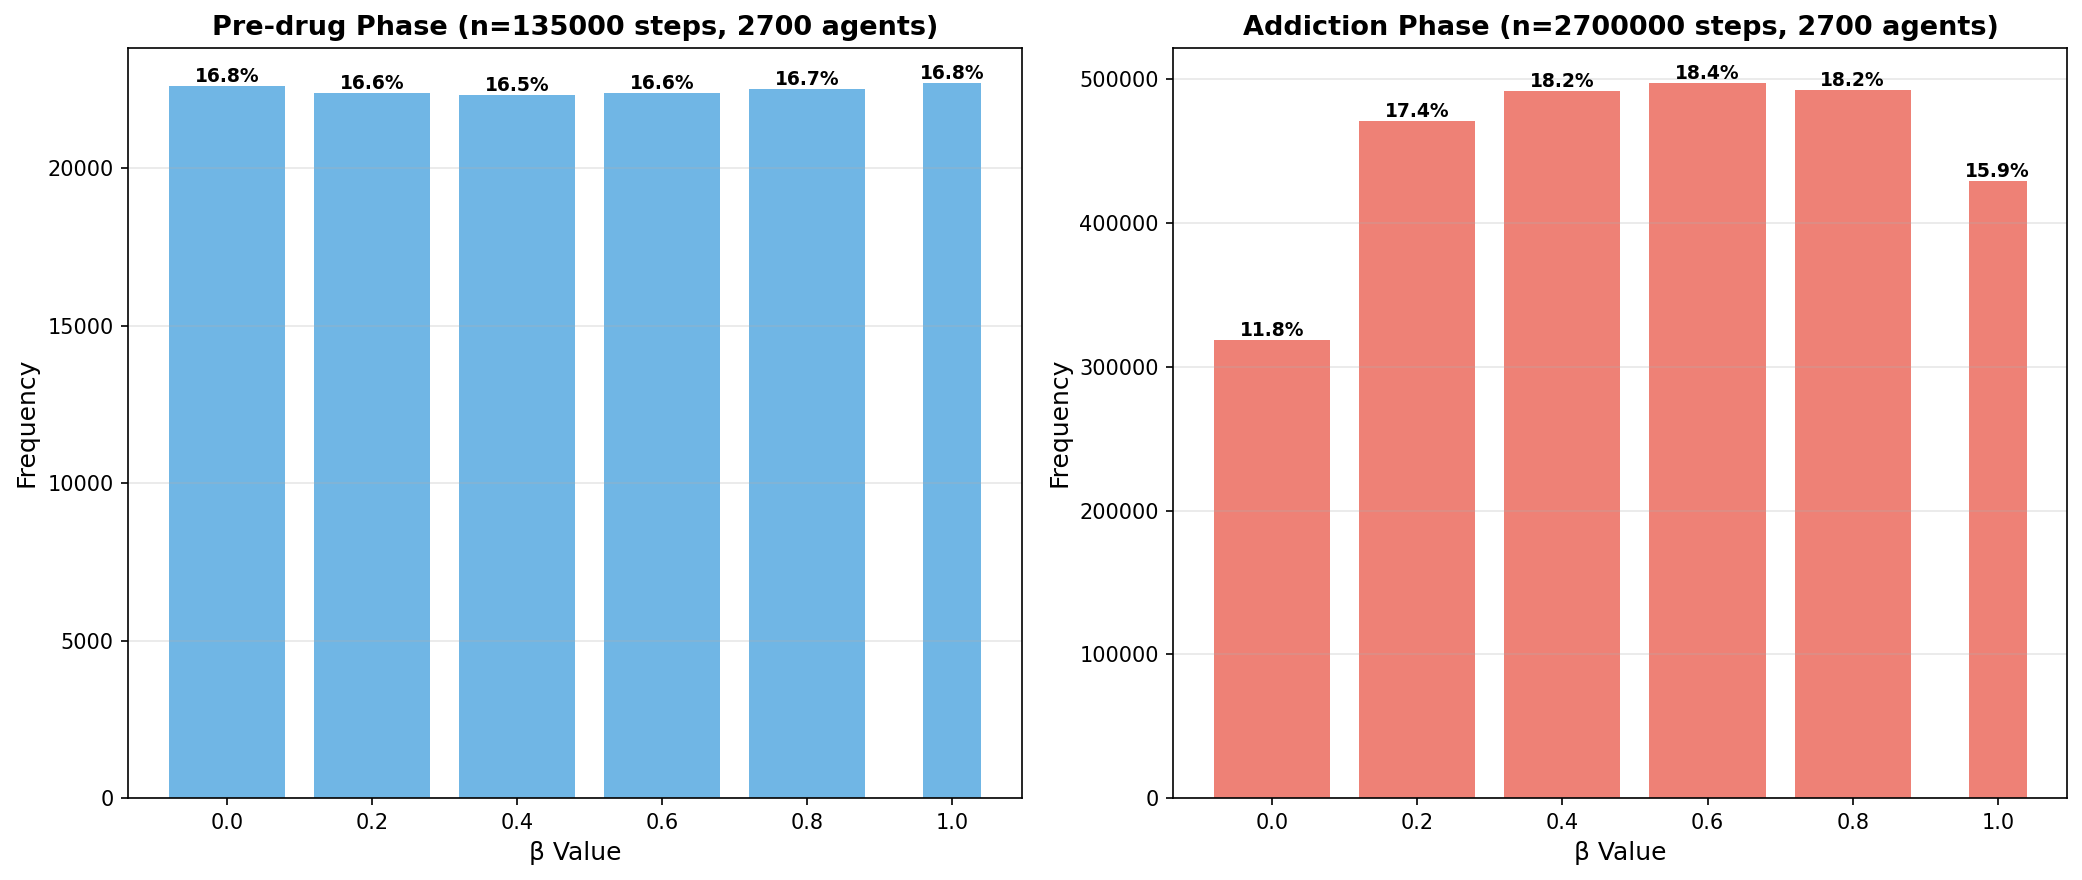
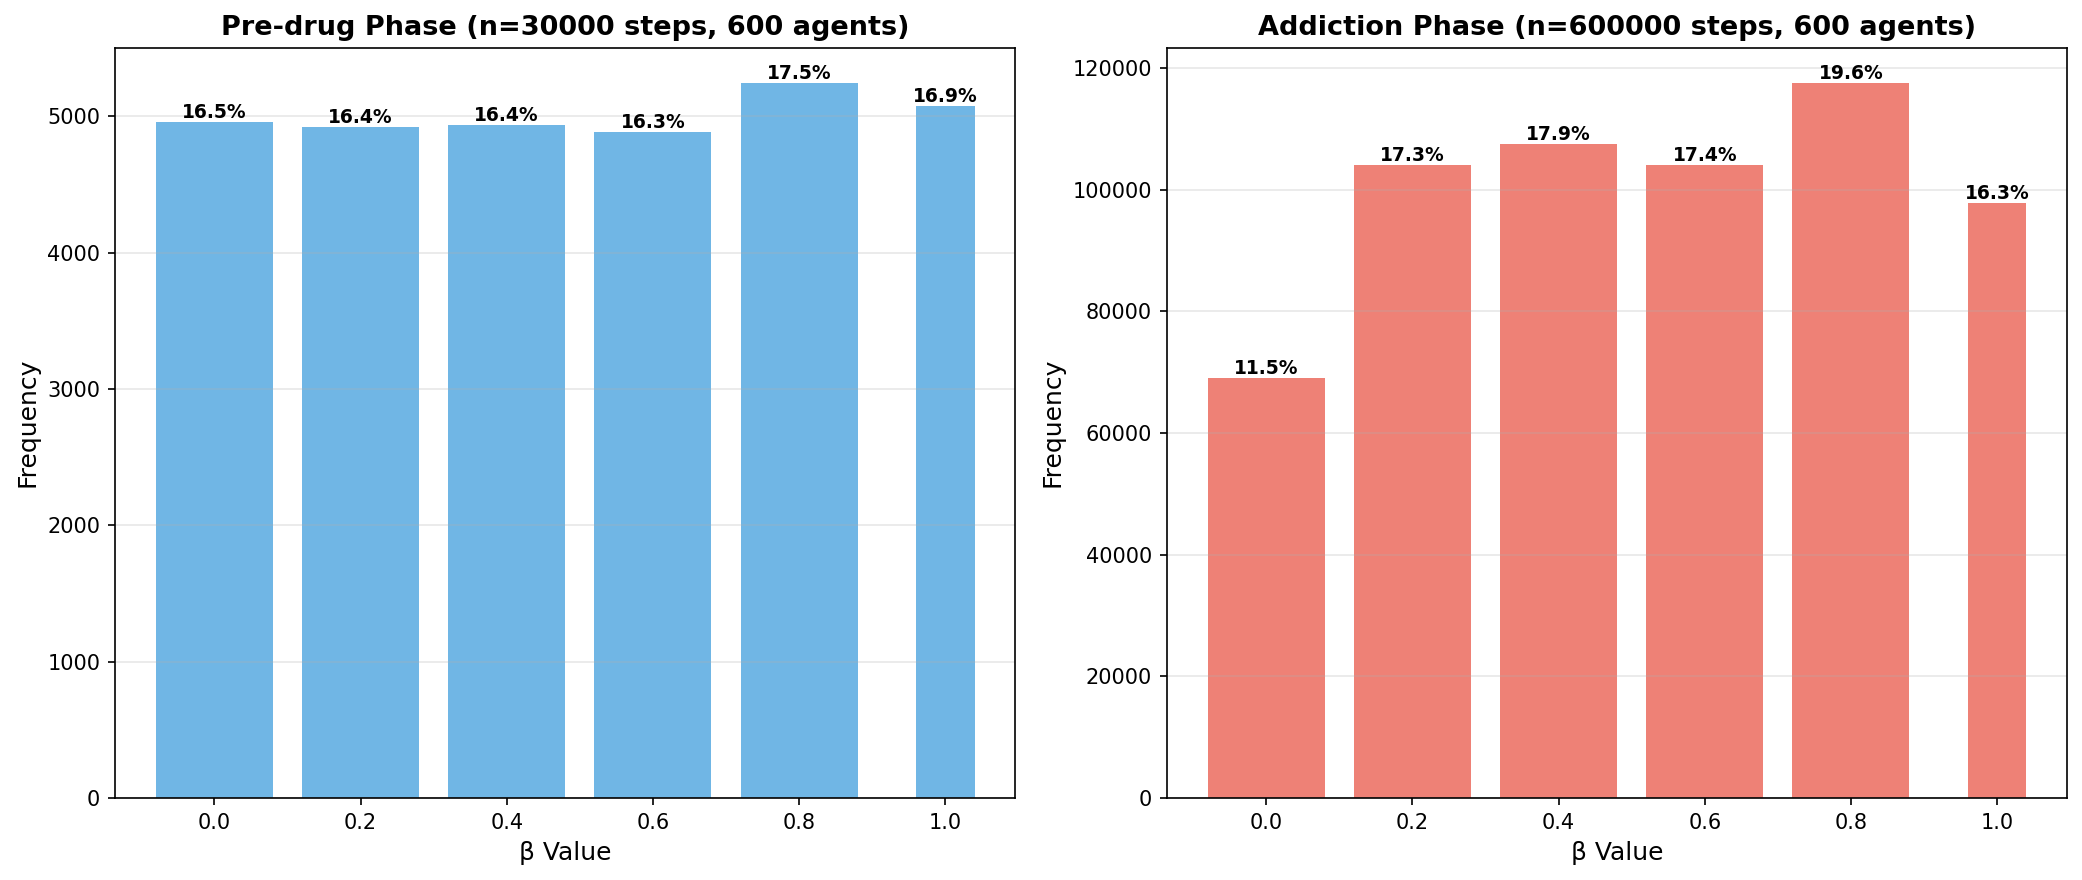
シミュレーション進捗の表示を追加し、依存状態の詳細分析グラフを実装。極端値使用率の統計を追加し、各エージェントのβ値の比較を強化。

diff --git a/addiction_rl_sim.py b/addiction_rl_sim.py
@@ -578,7 +578,13 @@ def simulate(
 
     try:
         for seed_idx in range(num_runs):
+            print(f"\n[Run {seed_idx + 1}/{num_runs}] Starting...")
             for agent_idx in range(num_agents):
+                # 100体ごとに進捗表示
+                if agent_idx > 0 and agent_idx % 100 == 0:
+                    current_addiction_rate = run_addictions[seed_idx] / agent_idx * 100
+                    print(f"  [Run {seed_idx + 1}/{num_runs}] Processed {agent_idx}/{num_agents} agents | Current addiction rate: {current_addiction_rate:.2f}%")
+                
                 # 固定ペアリングシード: (run, agent) ごとに一意のシードを割り当て
                 # これにより同じ (run, agent) 番号は全ての beta 値で同じ初期 RNG を使います
                 seed_for_agent = base_seed + seed_idx * num_agents + agent_idx
@@ -733,6 +739,10 @@ def simulate(
 
                 if debug_episode and seed_idx == 0 and agent_idx == 0 and log_file:
                     log_file.write(f"Final Counts - Drug Choices: {counts.drug_choices}, Healthy Choices: {counts.healthy_choices}\n")
+            
+            # Run終了時の統計表示
+            run_addiction_rate = run_addictions[seed_idx] / num_agents * 100
+            print(f"  [Run {seed_idx + 1}/{num_runs}] Completed! Final addiction rate: {run_addiction_rate:.2f}% ({run_addictions[seed_idx]}/{num_agents} agents)")
     finally:
         if log_file:
             log_file.close()
@@ -1155,6 +1165,190 @@ def plot_beta_analysis(beta_stats: BetaStatistics, output_prefix: str = "beta_an
         plt.savefig(f"{output_prefix}_addiction_comparison.png", dpi=150, bbox_inches='tight')
         print(f"Saved: {output_prefix}_addiction_comparison.png")
         plt.close()
+        
+        # ===== Figure 6: 追加の詳細分析グラフ =====
+        fig6, axes6 = plt.subplots(2, 3, figsize=(18, 10))
+        
+        # (1) β変動性の比較（各エージェントの標準偏差）
+        ax6_1 = axes6[0, 0]
+        std_addicted = [np.std(beta_matrix[i]) for i, is_add in enumerate(addiction_array) if is_add]
+        std_non_addicted = [np.std(beta_matrix[i]) for i, is_add in enumerate(addiction_array) if not is_add]
+        
+        bp1 = ax6_1.boxplot([std_addicted, std_non_addicted],
+                            tick_labels=['Addicted', 'Non-addicted'],
+                            patch_artist=True, widths=0.6)
+        bp1['boxes'][0].set_facecolor('#e74c3c')
+        bp1['boxes'][0].set_alpha(0.7)
+        bp1['boxes'][1].set_facecolor('#2ecc71')
+        bp1['boxes'][1].set_alpha(0.7)
+        
+        ax6_1.set_ylabel('β Standard Deviation (per agent)', fontsize=11)
+        ax6_1.set_title('β Variability Comparison', fontsize=12, fontweight='bold')
+        ax6_1.grid(True, alpha=0.3, axis='y')
+        
+        # 平均値を表示
+        ax6_1.plot([1, 2], [np.mean(std_addicted), np.mean(std_non_addicted)], 
+                  'D', markersize=10, color='orange', label='Mean', zorder=3)
+        ax6_1.legend()
+        
+        # (2) 極端値使用率の比較
+        ax6_2 = axes6[0, 1]
+        extreme_rates_add = []
+        extreme_rates_non = []
+        for i, is_add in enumerate(addiction_array):
+            agent_betas = beta_matrix[i]
+            extreme_rate = (np.sum(np.isclose(agent_betas, 0.0)) + 
+                          np.sum(np.isclose(agent_betas, 1.0))) / len(agent_betas) * 100
+            if is_add:
+                extreme_rates_add.append(extreme_rate)
+            else:
+                extreme_rates_non.append(extreme_rate)
+        
+        ax6_2.hist(extreme_rates_add, bins=20, alpha=0.6, label='Addicted',
+                  color='#e74c3c', density=True)
+        ax6_2.hist(extreme_rates_non, bins=20, alpha=0.6, label='Non-addicted',
+                  color='#2ecc71', density=True)
+        ax6_2.set_xlabel('Extreme Value Usage (%)', fontsize=11)
+        ax6_2.set_ylabel('Density', fontsize=11)
+        ax6_2.set_title('Extreme Strategy Usage Distribution', fontsize=12, fontweight='bold')
+        ax6_2.legend()
+        ax6_2.grid(True, alpha=0.3)
+        ax6_2.axvline(np.mean(extreme_rates_add), color='#e74c3c', linestyle='--', linewidth=2)
+        ax6_2.axvline(np.mean(extreme_rates_non), color='#2ecc71', linestyle='--', linewidth=2)
+        
+        # (3) 各βの使用率差（棒グラフ）
+        ax6_3 = axes6[0, 2]
+        freq_diff = []
+        for beta_val in BETA_VALUES:
+            freq_add = np.sum(np.isclose(beta_addicted, beta_val)) / len(beta_addicted) * 100
+            freq_non = np.sum(np.isclose(beta_non_addicted, beta_val)) / len(beta_non_addicted) * 100
+            freq_diff.append(freq_add - freq_non)
+        
+        colors_diff = ['#e74c3c' if d > 0 else '#2ecc71' for d in freq_diff]
+        bars_diff = ax6_3.bar(range(len(BETA_VALUES)), freq_diff, color=colors_diff, alpha=0.7)
+        ax6_3.axhline(0, color='black', linewidth=1)
+        ax6_3.set_xlabel('β Value', fontsize=11)
+        ax6_3.set_ylabel('Usage Difference (%)', fontsize=11)
+        ax6_3.set_title('β Usage: Addicted - Non-addicted', fontsize=12, fontweight='bold')
+        ax6_3.set_xticks(range(len(BETA_VALUES)))
+        ax6_3.set_xticklabels([f'{b:.1f}' for b in BETA_VALUES])
+        ax6_3.grid(True, alpha=0.3, axis='y')
+        
+        # 値をバーに表示
+        for i, (bar, diff) in enumerate(zip(bars_diff, freq_diff)):
+            height = bar.get_height()
+            ax6_3.text(bar.get_x() + bar.get_width()/2, height,
+                      f'{diff:+.1f}%', ha='center', 
+                      va='bottom' if height > 0 else 'top', fontsize=9)
+        
+        # (4) 時系列でのβ平均（依存群vs非依存群）
+        ax6_4 = axes6[1, 0]
+        
+        # 各時刻での平均を計算
+        beta_add_mean_t = np.mean(beta_addicted_by_phase, axis=0)
+        beta_non_mean_t = np.mean(beta_non_addicted_by_phase, axis=0)
+        beta_add_std_t = np.std(beta_addicted_by_phase, axis=0)
+        beta_non_std_t = np.std(beta_non_addicted_by_phase, axis=0)
+        
+        ax6_4.plot(step_array, beta_add_mean_t, '-', color='#e74c3c', linewidth=2, 
+                  label='Addicted', alpha=0.8)
+        ax6_4.fill_between(step_array, beta_add_mean_t - beta_add_std_t, 
+                          beta_add_mean_t + beta_add_std_t,
+                          color='#e74c3c', alpha=0.2)
+        
+        ax6_4.plot(step_array, beta_non_mean_t, '-', color='#2ecc71', linewidth=2,
+                  label='Non-addicted', alpha=0.8)
+        ax6_4.fill_between(step_array, beta_non_mean_t - beta_non_std_t,
+                          beta_non_mean_t + beta_non_std_t,
+                          color='#2ecc71', alpha=0.2)
+        
+        # フェーズ境界
+        phase_boundary = np.where(np.diff(phase_mean) != 0)[0]
+        for boundary in phase_boundary:
+            ax6_4.axvline(step_array[boundary], color='gray', linestyle='--', alpha=0.5)
+        
+        ax6_4.set_xlabel('Step', fontsize=11)
+        ax6_4.set_ylabel('Mean β Value', fontsize=11)
+        ax6_4.set_title('β Dynamics: Addicted vs Non-addicted', fontsize=12, fontweight='bold')
+        ax6_4.set_ylim(-0.05, 1.05)
+        ax6_4.legend()
+        ax6_4.grid(True, alpha=0.3)
+        
+        # (5) 中間値使用率の比較
+        ax6_5 = axes6[1, 1]
+        middle_rates_add = []
+        middle_rates_non = []
+        for i, is_add in enumerate(addiction_array):
+            agent_betas = beta_matrix[i]
+            # β=0.2, 0.4, 0.6, 0.8の使用率
+            middle_count = 0
+            for beta_val in [0.2, 0.4, 0.6, 0.8]:
+                middle_count += np.sum(np.isclose(agent_betas, beta_val))
+            middle_rate = middle_count / len(agent_betas) * 100
+            if is_add:
+                middle_rates_add.append(middle_rate)
+            else:
+                middle_rates_non.append(middle_rate)
+        
+        bp2 = ax6_5.boxplot([middle_rates_add, middle_rates_non],
+                            tick_labels=['Addicted', 'Non-addicted'],
+                            patch_artist=True, widths=0.6)
+        bp2['boxes'][0].set_facecolor('#e74c3c')
+        bp2['boxes'][0].set_alpha(0.7)
+        bp2['boxes'][1].set_facecolor('#2ecc71')
+        bp2['boxes'][1].set_alpha(0.7)
+        
+        ax6_5.set_ylabel('Middle Values Usage (%)', fontsize=11)
+        ax6_5.set_title('Balanced Strategy Usage (β=0.2-0.8)', fontsize=12, fontweight='bold')
+        ax6_5.grid(True, alpha=0.3, axis='y')
+        
+        # 平均値を表示
+        ax6_5.plot([1, 2], [np.mean(middle_rates_add), np.mean(middle_rates_non)],
+                  'D', markersize=10, color='orange', label='Mean', zorder=3)
+        ax6_5.legend()
+        
+        # (6) 相関分析：β平均値と依存確率
+        ax6_6 = axes6[1, 2]
+        
+        # 各エージェントの平均β値を計算
+        agent_mean_betas = [np.mean(beta_matrix[i]) for i in range(len(beta_matrix))]
+        
+        # β値を10区間に分割
+        beta_bins = np.linspace(0, 1, 11)
+        addiction_rates_by_beta = []
+        bin_centers = []
+        bin_counts = []
+        
+        for i in range(len(beta_bins) - 1):
+            bin_low = beta_bins[i]
+            bin_high = beta_bins[i + 1]
+            mask = (np.array(agent_mean_betas) >= bin_low) & (np.array(agent_mean_betas) < bin_high)
+            if i == len(beta_bins) - 2:  # 最後のビンは上限を含む
+                mask = (np.array(agent_mean_betas) >= bin_low) & (np.array(agent_mean_betas) <= bin_high)
+            
+            if np.sum(mask) > 0:
+                addiction_rate = np.sum(np.array(beta_stats.addiction_status)[mask]) / np.sum(mask) * 100
+                addiction_rates_by_beta.append(addiction_rate)
+                bin_centers.append((bin_low + bin_high) / 2)
+                bin_counts.append(np.sum(mask))
+        
+        ax6_6.plot(bin_centers, addiction_rates_by_beta, 'o-', linewidth=2, markersize=8,
+                  color='#9b59b6')
+        ax6_6.set_xlabel('Mean β Value (binned)', fontsize=11)
+        ax6_6.set_ylabel('Addiction Rate (%)', fontsize=11)
+        ax6_6.set_title('Addiction Rate by Mean β Value', fontsize=12, fontweight='bold')
+        ax6_6.grid(True, alpha=0.3)
+        ax6_6.set_xlim(0, 1)
+        
+        # サンプル数を注釈
+        for x, y, count in zip(bin_centers, addiction_rates_by_beta, bin_counts):
+            ax6_6.annotate(f'n={count}', (x, y), textcoords='offset points',
+                          xytext=(0, 5), ha='center', fontsize=8, alpha=0.7)
+        
+        plt.tight_layout()
+        plt.savefig(f"{output_prefix}_detailed_analysis.png", dpi=150, bbox_inches='tight')
+        print(f"Saved: {output_prefix}_detailed_analysis.png")
+        plt.close()
     
     print("\n" + "="*60)
     print("β SELECTION STATISTICS")
@@ -1172,6 +1366,9 @@ def plot_beta_analysis(beta_stats: BetaStatistics, output_prefix: str = "beta_an
         print(f"\n--- Addicted agents (n={n_addicted}) ---")
         print(f"  Mean β: {np.mean(beta_addicted):.3f} ± {np.std(beta_addicted):.3f}")
         print(f"  Median β: {np.median(beta_addicted):.3f}")
+        # 極端値の使用率
+        extreme_add = np.sum(np.isclose(beta_addicted, 0.0)) + np.sum(np.isclose(beta_addicted, 1.0))
+        print(f"  Extreme values (β=0.0 or 1.0): {extreme_add / len(beta_addicted) * 100:.2f}%")
         print(f"\nβ selection frequency (Addicted):")
         for beta_val in BETA_VALUES:
             count = np.sum(np.isclose(beta_addicted, beta_val))
@@ -1181,11 +1378,19 @@ def plot_beta_analysis(beta_stats: BetaStatistics, output_prefix: str = "beta_an
         print(f"\n--- Non-addicted agents (n={n_non_addicted}) ---")
         print(f"  Mean β: {np.mean(beta_non_addicted):.3f} ± {np.std(beta_non_addicted):.3f}")
         print(f"  Median β: {np.median(beta_non_addicted):.3f}")
+        # 極端値の使用率
+        extreme_non = np.sum(np.isclose(beta_non_addicted, 0.0)) + np.sum(np.isclose(beta_non_addicted, 1.0))
+        print(f"  Extreme values (β=0.0 or 1.0): {extreme_non / len(beta_non_addicted) * 100:.2f}%")
         print(f"\nβ selection frequency (Non-addicted):")
         for beta_val in BETA_VALUES:
             count = np.sum(np.isclose(beta_non_addicted, beta_val))
             percentage = 100.0 * count / len(beta_non_addicted)
             print(f"  β={beta_val:.1f}: {count:6d} times ({percentage:5.2f}%)")
+        
+        # 差の統計
+        print(f"\n--- Comparison (Addicted vs Non-addicted) ---")
+        print(f"  Mean difference: {np.mean(beta_addicted) - np.mean(beta_non_addicted):.3f}")
+        print(f"  Extreme value difference: {(extreme_add / len(beta_addicted) - extreme_non / len(beta_non_addicted)) * 100:.2f}%")
     else:
         print(f"\nβ selection frequency:")
         for beta_val in BETA_VALUES:
